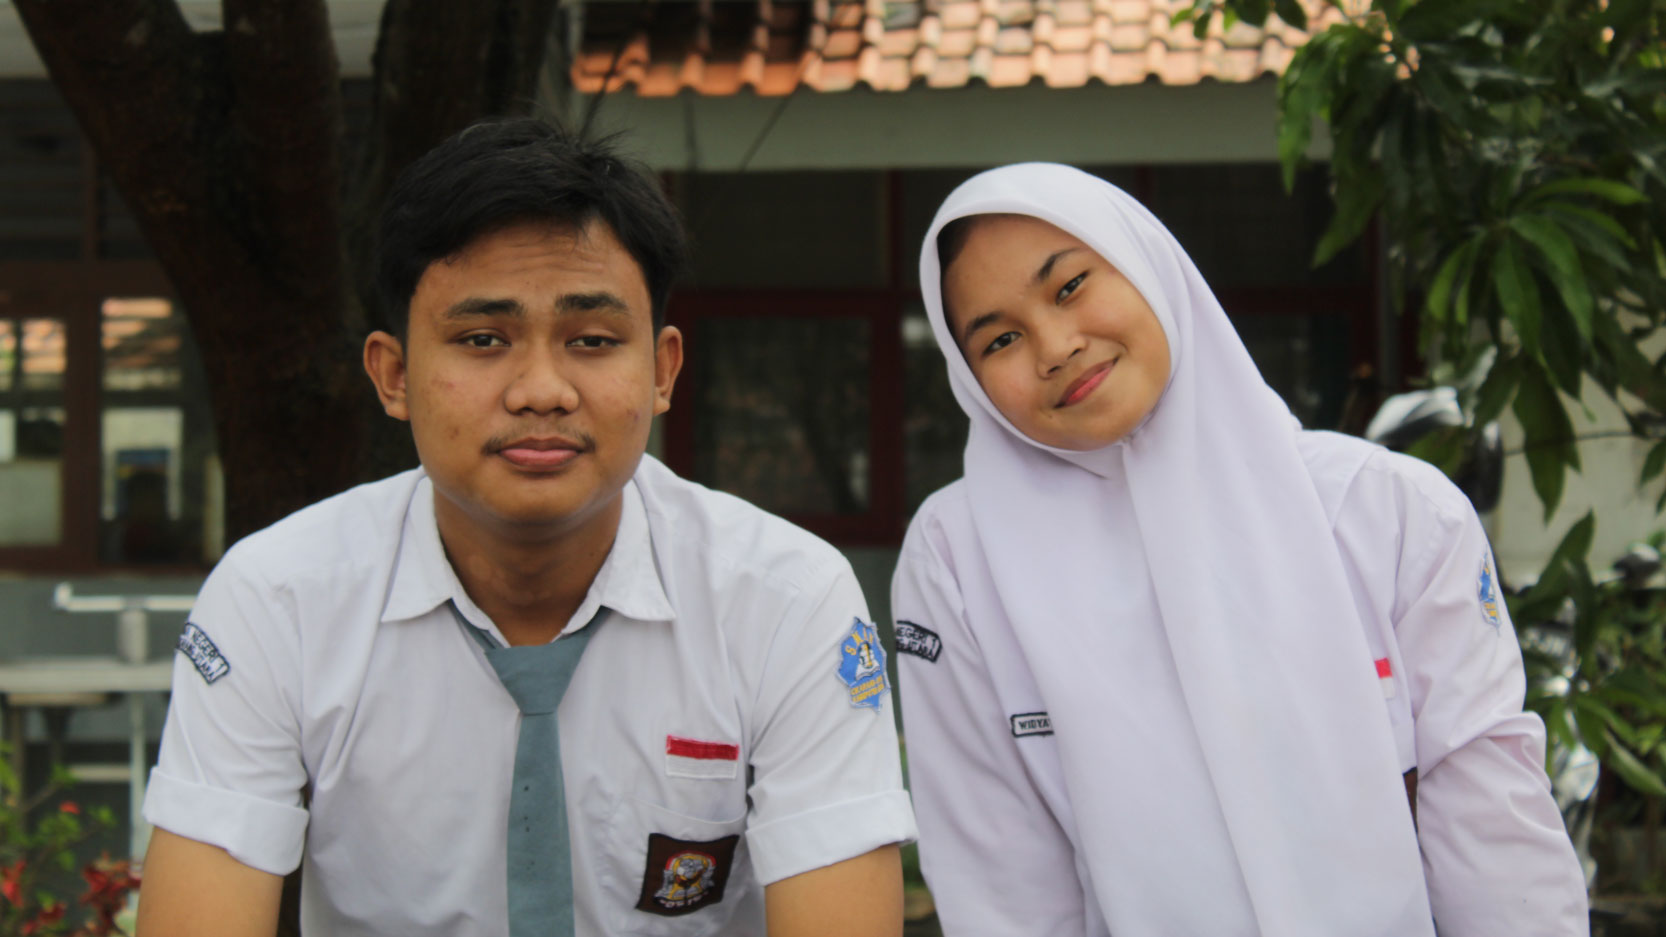
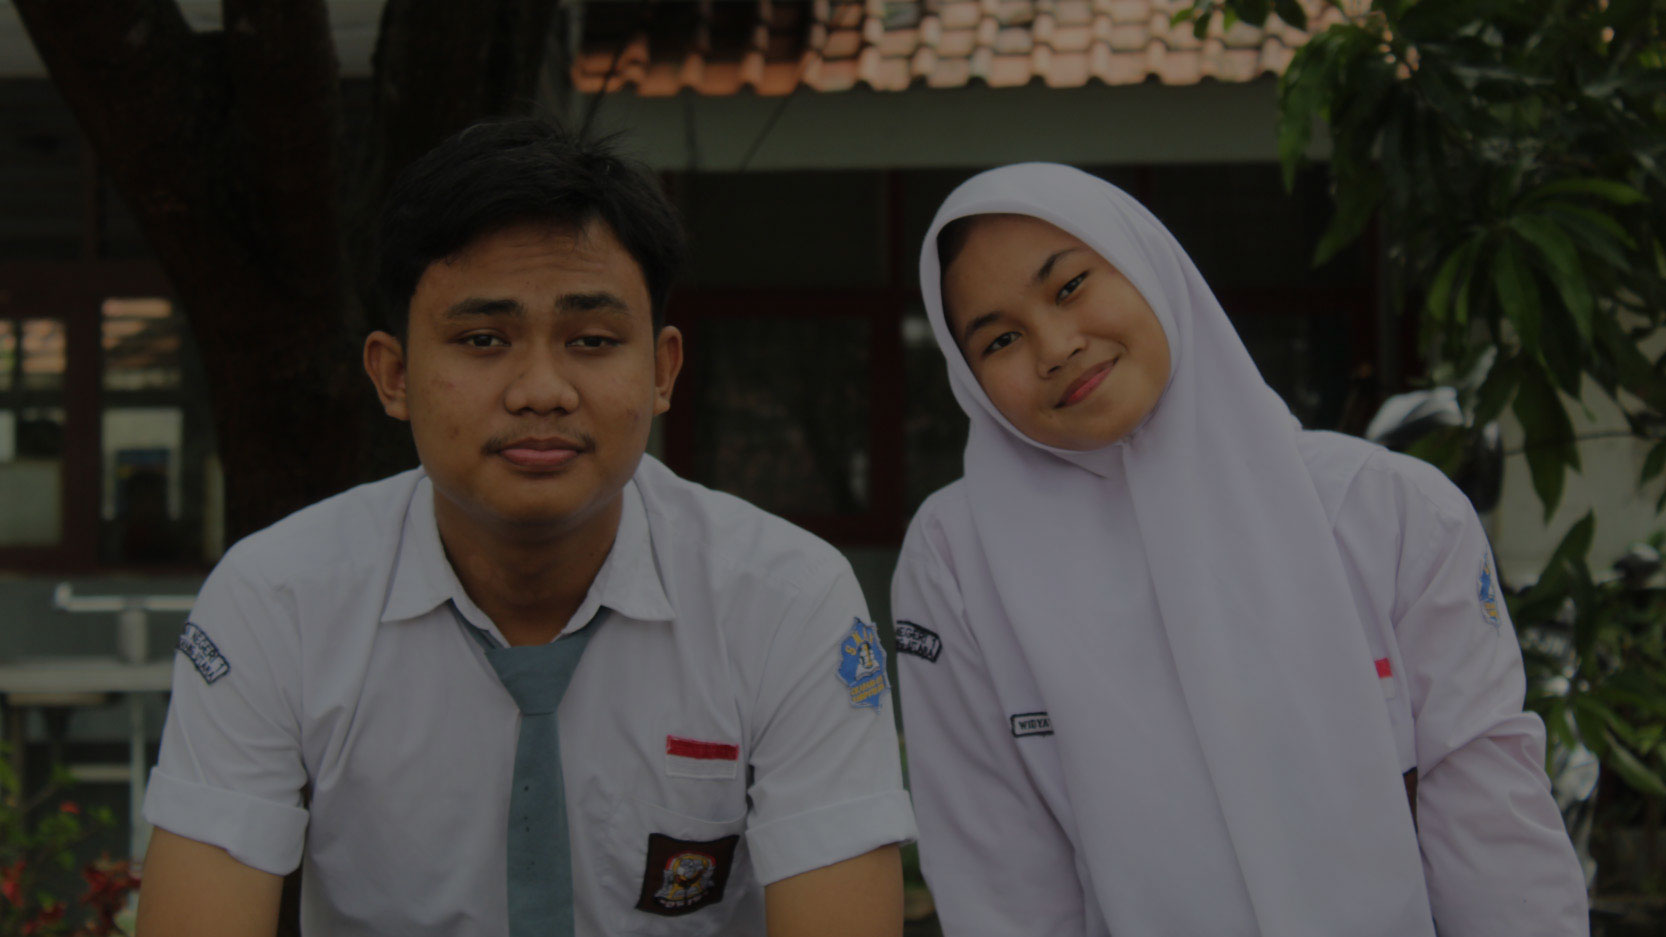
audio

diff --git a/index.html b/index.html
@@ -28,18 +28,17 @@
   <!-- Responsive Style -->
   <link rel="stylesheet" href="assets/css/responsive.css">
   <link rel="stylesheet" href="assets/css/css/">
-  
+
 </head>
 
 <body>
-  <audio hidden id="autoplay" loop src="assets/music/rapsodi.MP3" type="audio/mpeg">
+  <audio hidden id="audio" loop src="assets/music/rapsodi.MP3" type="audio/mpeg">
   </audio>
 
   <!-- Header Area wrapper Starts -->
   <header id="header-wrap">
     <!-- Hero Area Start -->
     <div id="hero-area" class="hero-area-bg">
-      <div class="overlay"></div>
       <div class="container">
         <div class="row">
           <div style="padding: 0;" class="col-md-12 col-sm-12">
@@ -49,6 +48,9 @@
                 <p class="wow fadeInDown" style="color: white;">The Wedding Of</p>
                 <h2 class="section-title-main wow fadeInDown" data-wow-delay="0.3s">Azriel & Widyayu</h2>
               </div>
+              <button onclick="scrolll(); this.remove()" class="open wow fadeInDown">
+                Open Invitation
+            </button>
             </div>
 
 
@@ -138,7 +140,8 @@
     <section id="timeline" class="section-padding">
       <div class="container">
         <div class="section-header text-center">
-          <h2 class="hitmun section-title wow fadeInDown" style="padding: 0;" data-wow-delay="0.3s">Hitung Mundur Menuju Acara
+          <h2 class="hitmun section-title wow fadeInDown" style="padding: 0;" data-wow-delay="0.3s">Hitung Mundur Menuju
+            Acara
           </h2>
         </div>
 
@@ -156,7 +159,8 @@
             </ul>
           </div>
           <div id="dedlen">
-            <p class=" wow fadeInDown" style="padding: 0;">Dan di antara tanda-tanda (kebesaran)-Nya ialah Dia menciptakan pasangan-pasangan
+            <p class=" wow fadeInDown" style="padding: 0;">Dan di antara tanda-tanda (kebesaran)-Nya ialah Dia
+              menciptakan pasangan-pasangan
               untukmu dari jenismu sendiri, agar kamu cenderung dan merasa tenteram kepadanya, dan Dia menjadikan di
               antaramu rasa kasih dan sayang. Sungguh, pada yang demikian itu benar-benar terdapat tanda-tanda
               (kebesaran Allah) bagi kaum yang berpikir.
@@ -248,14 +252,14 @@
     <div class="container">
 
 
-        <div class="social-icon text-center">
-          <a class="instagram" href="https://www.instagram.com/remisixx/" target="_blank"><i
-              class="lni-instagram-filled"></i></a>
-          <a class="instagram" href="https://www.instagram.com/al_ikhwan.h/" target="_blank"><i
-              class="lni-instagram-filled"></i></a>
-        </div>
+      <div class="social-icon text-center">
+        <a class="instagram" href="https://www.instagram.com/remisixx/" target="_blank"><i
+            class="lni-instagram-filled"></i></a>
+        <a class="instagram" href="https://www.instagram.com/al_ikhwan.h/" target="_blank"><i
+            class="lni-instagram-filled"></i></a>
+      </div>
 
-        <p style="padding: 0;">Designed and Developed with ♥ <br>by Ali Ikhwan Habibie & XII MIPA 6</a></p>
+      <p style="padding: 0;">Designed and Developed with ♥ <br>by Ali Ikhwan Habibie & XII MIPA 6</a></p>
 
 
     </div>
@@ -329,8 +333,12 @@
       //seconds
     }, 1000);
 
-    window.onload = function(){
-      document.getElementById("autoplay").play();
+    function scrolll(){
+      document.getElementsByTagName('html')[0].style.overflowY = "scroll";
+      document.getElementById('timeline').scrollIntoView({behavior: 'smooth'}, true);
+      var audio = document.getElementById("audio");
+        audio.play();
+
     }
   </script>
 </body>

diff --git a/assets/css/main.css b/assets/css/main.css
@@ -12,6 +12,7 @@
   
   html {
     overflow-x: hidden;
+    overflow-y: hidden;
   }
 
   body {
@@ -834,7 +835,7 @@
     background-size:cover;
     background-position: center center;
     background-repeat: repeat, no-repeat;
-    z-index: -1;
+
     display: flex;
     height: 100vh;
     display: flex;
@@ -2394,3 +2395,40 @@
   height: 100%;
   object-fit: cover;
 }
+.open {
+  padding: 0.8em 1.8em;
+  border: 2px solid WHITE;
+  position: relative;
+  overflow: hidden;
+  background-color: transparent;
+  text-align: center;
+  font-size: 16px;
+  transition: .3s;
+  z-index: 30000;
+  cursor: pointer;
+  font-family: inherit;
+  color: WHITE;
+ }
+ 
+.open::before {
+  content: '';
+  width: 0;
+  height: 300%;
+  position: absolute;
+  top: 50%;
+  left: 50%;
+  transform: translate(-50%, -50%) rotate(45deg);
+  background: white;
+  transition: .5s ease;
+  display: block;
+  z-index: -1;
+ }
+ 
+ .open:hover::before {
+  width: 105%;
+ }
+ 
+ .open:hover {
+  color: #111;
+ }
+ 

diff --git a/assets/css/responsive.css b/assets/css/responsive.css
@@ -330,4 +330,8 @@
   .hitmun{
     margin-bottom: 25px;
   }
+  .open {
+  font-size: 12px;
+  padding: 0.5em 1.2em;
+  }
 }
